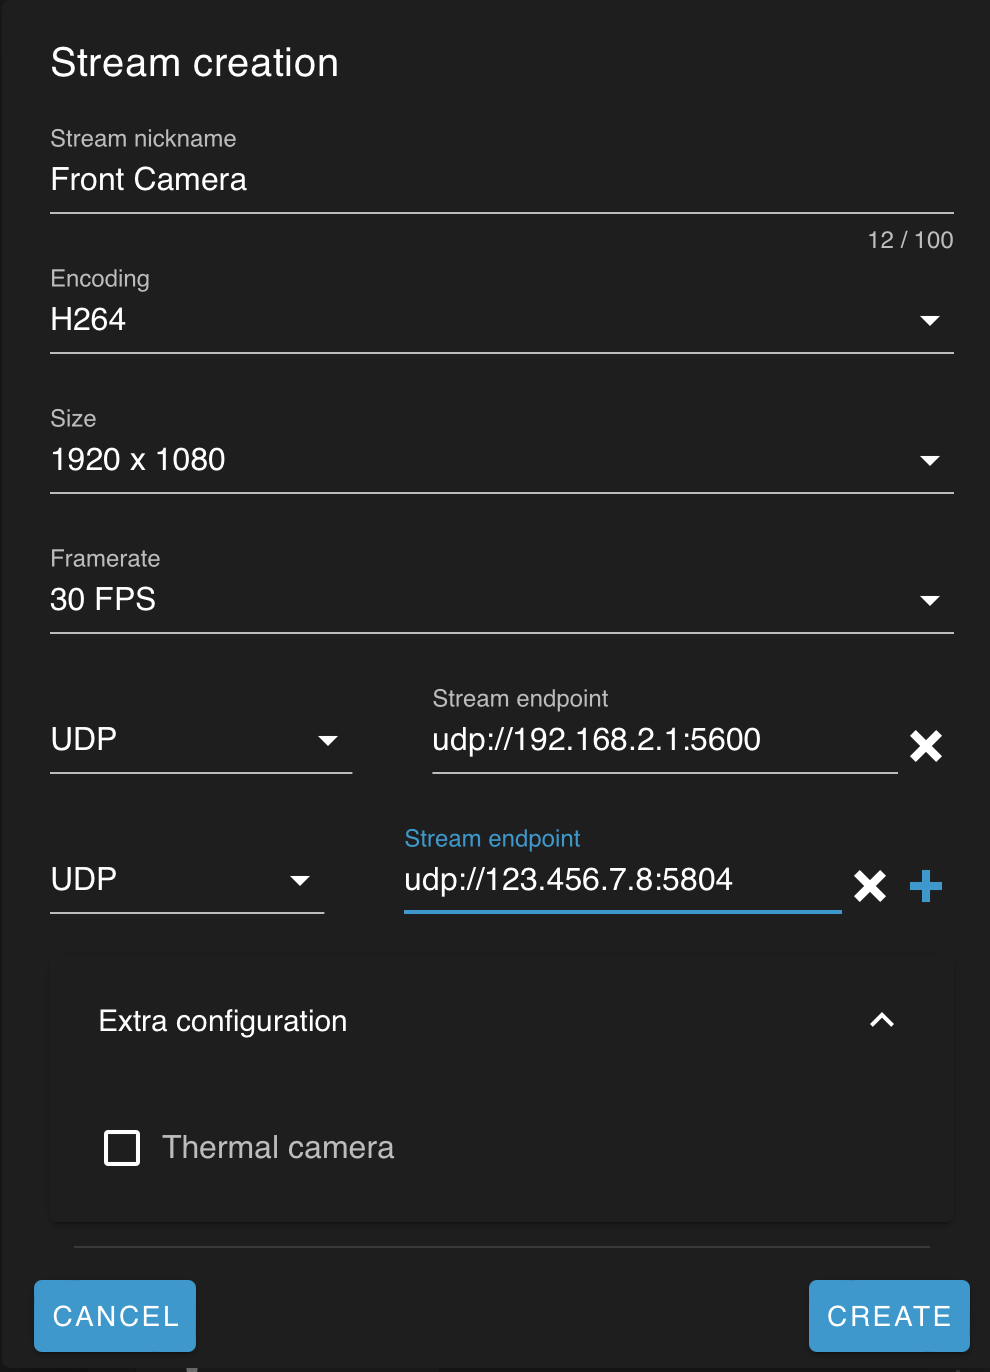
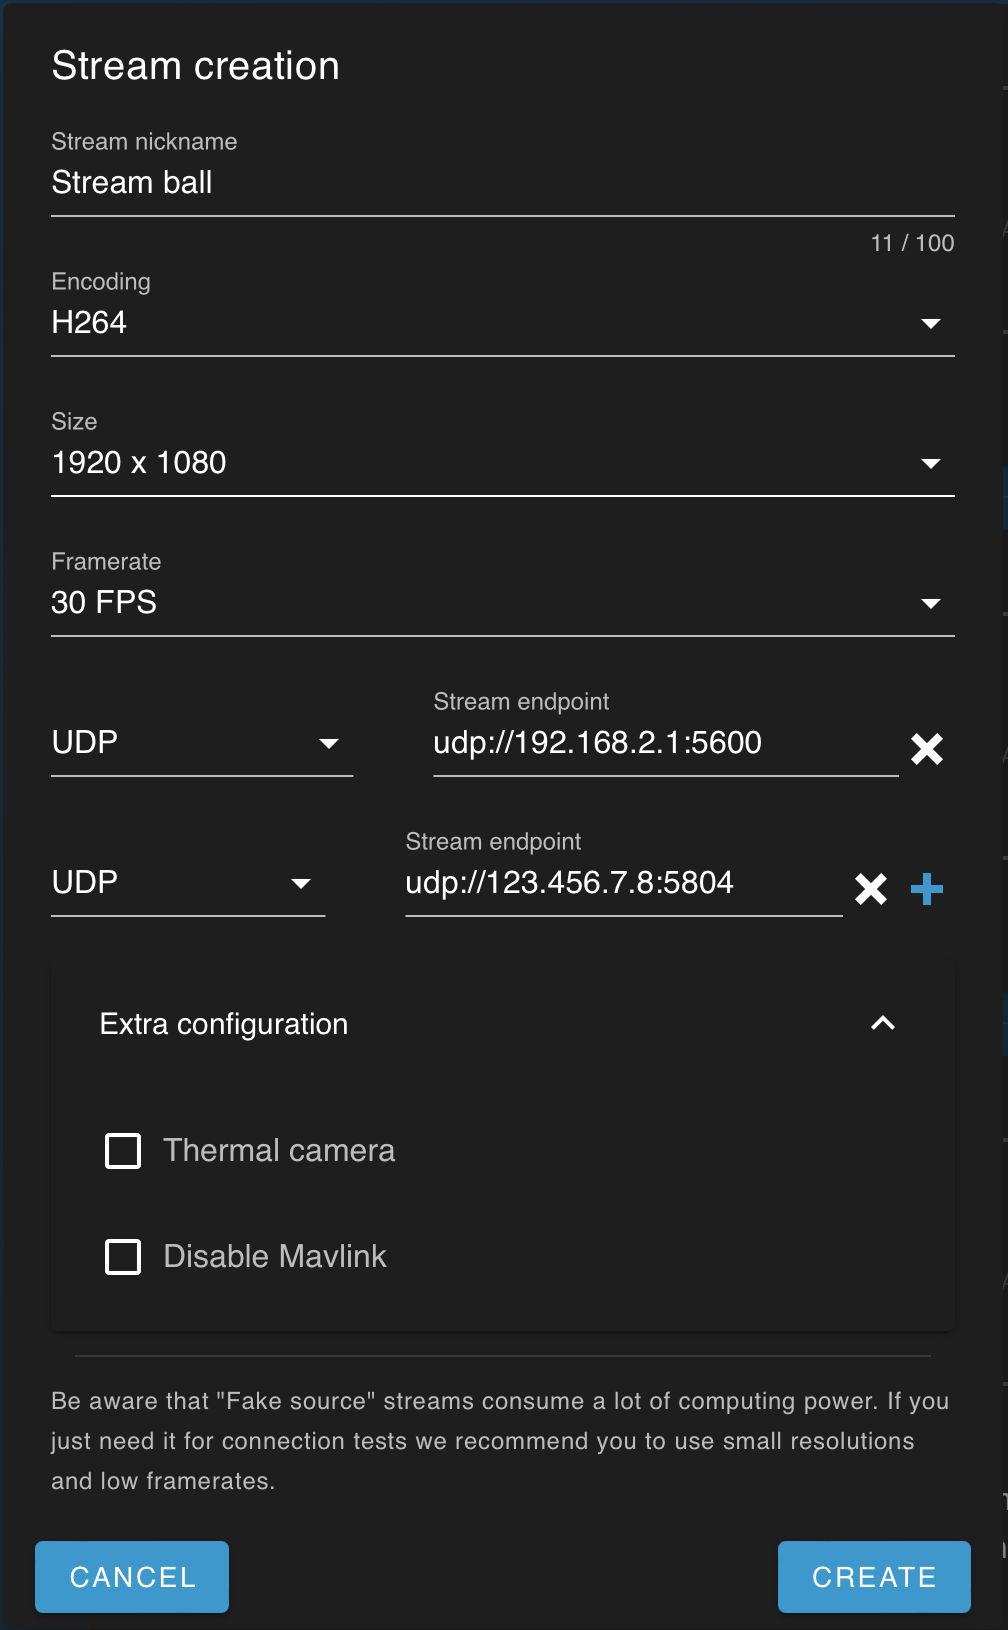
video stream: allow disabling MAVLink advertising

diff --git a/advanced-usage/index.md b/advanced-usage/index.md
@@ -563,8 +563,8 @@ connected at that time, with UDP streams counting up from port `5600`
 
 {{ simple_pirate_image(src="video-stream-example", width=400, center=true) }}
 
-- The streams are also presented via MAVLink, so QGroundControl (>=v4.1.7) can
-toggle between them without needing to know specific ports.
+- By default the streams are also presented via MAVLink, so QGroundControl (>=v4.1.7)
+can toggle between them without needing to know specific ports
 {% pirate() %}
    - It is possible to specify a stream as "thermal", which allows it to be
    overlaid on another stream in some viewing applications

diff --git a/overview/index.md b/overview/index.md
@@ -72,6 +72,7 @@ This covers a summary of the major changes and new features in BlueOS-1.1. Where
    - RTSP output support added for MJPG and YUYV encoded streams
    - MAVLink support improved
       - Allows Control Station Software (e.g. QGroundControl) to configure camera settings and switch between multiple video streams
+      - Disabling MAVLink advertising of a video stream is now possible
 - [MAVLink Endpoints](../advanced-usage/#mavlink-endpoints) (REPLACES "Endpoints")
    - IP address interface now indicates the endpoint type
    - Endpoints are now editable
